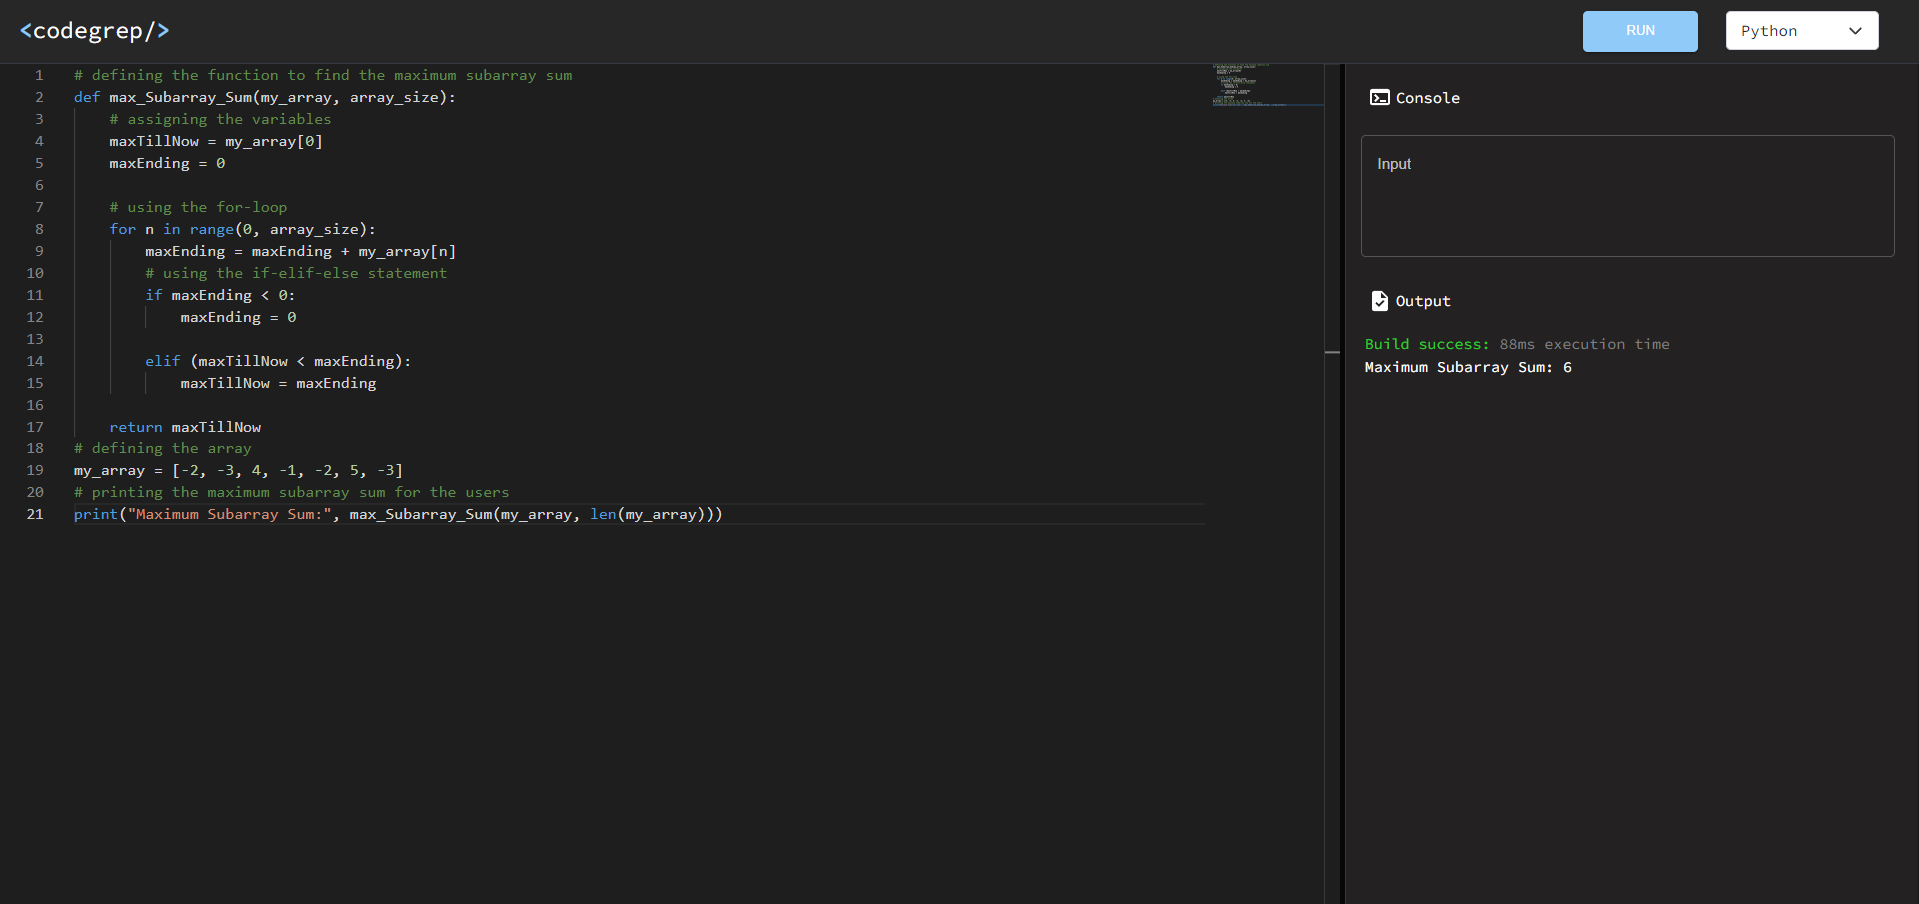
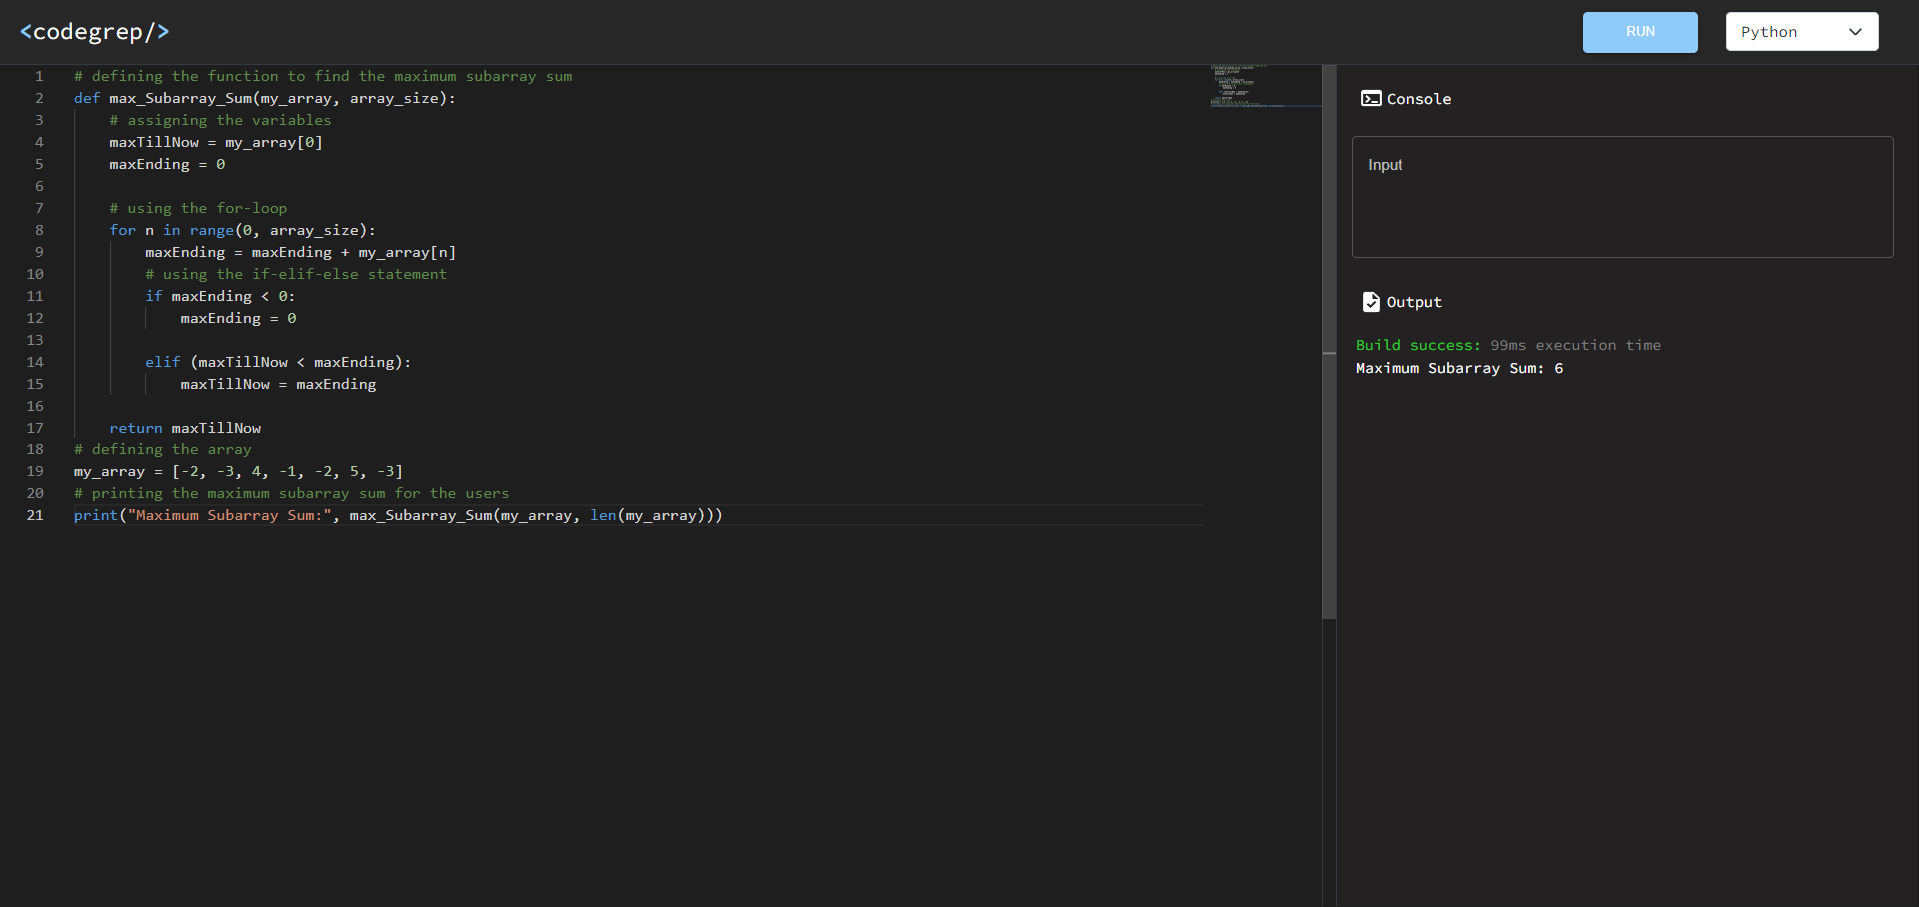
width set

diff --git a/client/src/Output.js b/client/src/Output.js
@@ -2,10 +2,9 @@ import React from 'react'
 import TerminalIcon from '@mui/icons-material/Terminal';
 import { TextField } from '@mui/material';
 import TaskIcon from '@mui/icons-material/Task';
-import { green } from '@mui/material/colors';
 export const Output = (props) => {
     return (
-        <div className="output" style={{ display: 'flex', flexDirection: 'column', textAlign: 'left', paddingLeft: '0.8vw', backgroundColor: '#232121', marginTop: '0px', paddingTop: '16px', overflowY: 'scroll', position: 'relative', height: '93vh', fontSize: '0.98em', width: '30vw', borderLeft: '1px solid #343a40' }}>
+        <div className="output" style={{ display: 'flex', flexDirection: 'column', textAlign: 'left', paddingLeft: '0.8vw', backgroundColor: '#232121', marginTop: '0px', paddingTop: '16px', overflowY: 'scroll', position: 'relative', height: '93vh', fontSize: '0.98em', width: '30.5vw', borderLeft: '1px solid #343a40',marginLeft:'-6px' }}>
             <div className="headlogos" style={{ display: 'flex', flexDirection: 'row', alignItems: 'center' }}>
                 <TerminalIcon style={{width:'21px',height:'26px',marginLeft:'6px'}} />
                 <p style={{ fontSize: '13.25px',marginBottom:'-1.58px',marginLeft:'3px' }}>Console </p>

diff --git a/client/src/TextEditor.jsx b/client/src/TextEditor.jsx
@@ -1,5 +1,4 @@
 import React from 'react'
-import CodeEditor from '@uiw/react-textarea-code-editor';
 import Editor from "@monaco-editor/react";
 export const TextEditor = (props) => {
     
@@ -19,6 +18,7 @@ export const TextEditor = (props) => {
             /> */}
             <Editor
                 height="92.85vh"
+                width="100%"
                 theme="vs-dark"
                 language={props.lang==="py"?"python":props.lang}
                 value={props.c}
